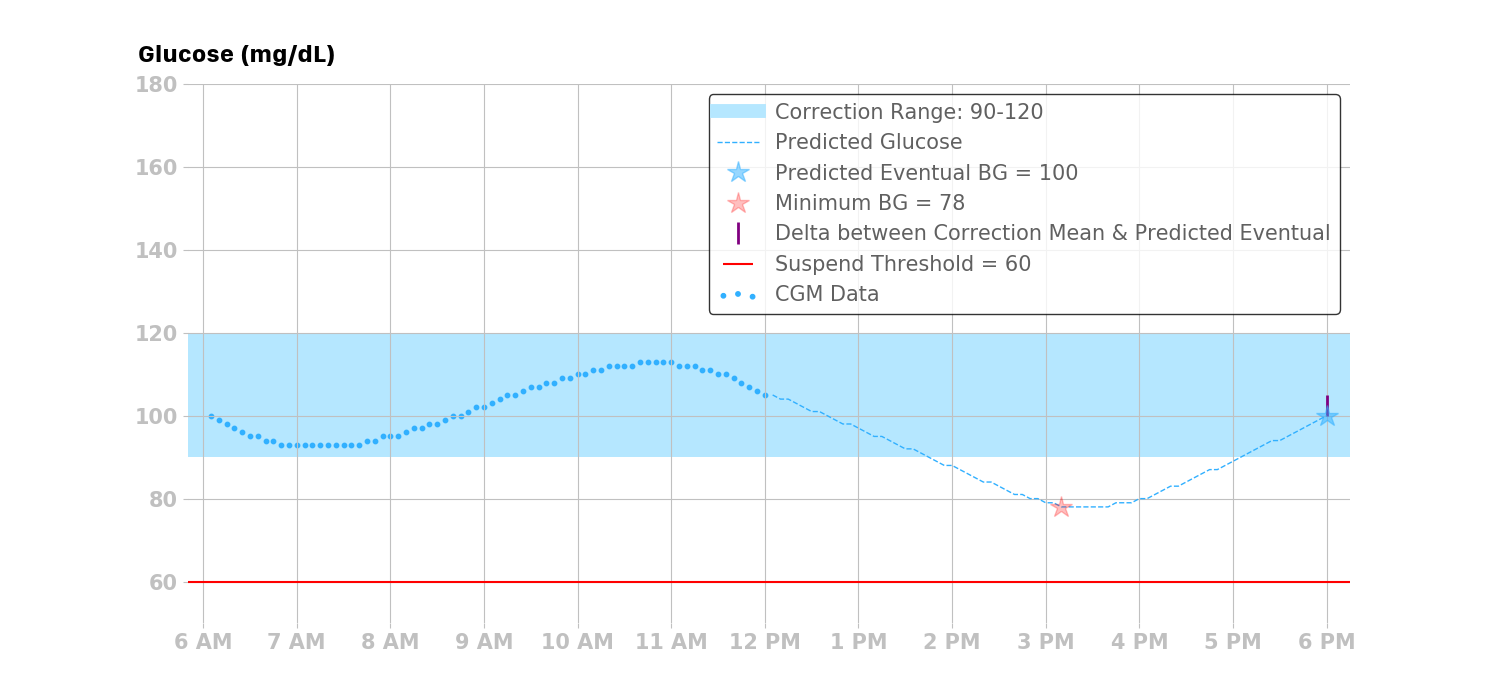
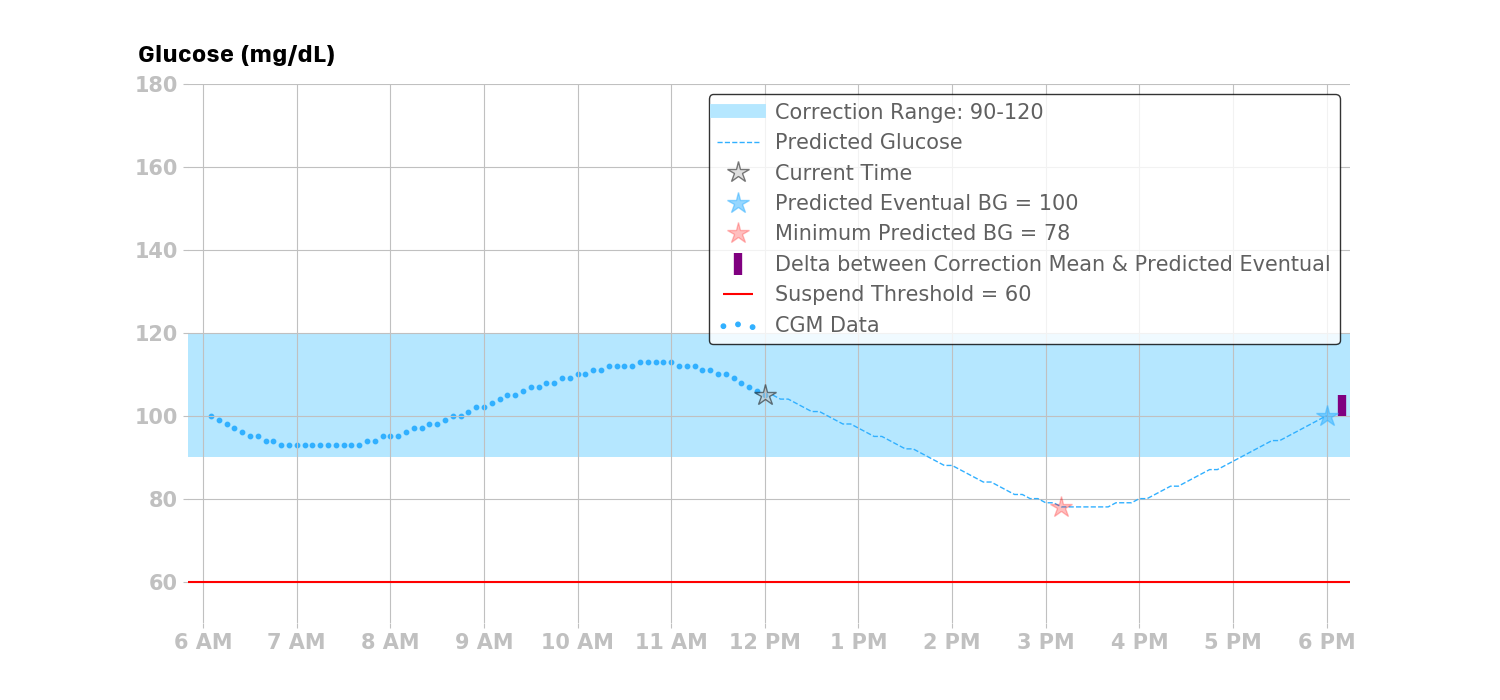
a few file name changes and some tweaks

Changed region(s): [[0.46, 0.24, 0.8893, 0.51], [0.8893, 0.57, 0.92, 0.6], [0.4907, 0.54, 0.5213, 0.57]]

diff --git a/projects/loop-algorithm/loopTempBasalLogic-InsulinComponent.py b/projects/loop-algorithm/loopTempBasalLogic-InsulinComponent.py
@@ -418,7 +418,7 @@ plt.show()
 plt.close('all')
 
 
-# %% insulin activity curve
+# %% insulin activity curves
 peakActivityTime = 60
 activeDuration = 6
 deliveryTime = dt.datetime.now()
@@ -448,27 +448,27 @@ fiasp = get_insulin_effect(model="fiasp",
                            insulinAmount=insulinAmount,
                            isf=isf)
 
+walsh = get_insulin_effect(model="walsh",
+                           peakActivityTime=peakActivityTime,
+                           activeDuration=activeDuration,
+                           deliveryTime=deliveryTime,
+                           insulinAmount=insulinAmount,
+                           isf=isf)
 
-figureName = "insulin-activity-curves"
+
+
+# %% first make a plot of just one curve for illustrative purposes
+figureName = "insulin-activity-curve"
 yLabel = "Insulin Effect Relative to Time of Delivery"
 fig, ax = plt.subplots(figsize=figureSizeInches)
 
 # plot the activty curve by normalizing the delta BG effect
-ax.plot(xData, abs(humNovAdult["deltaGlucoseEffect"]) / max(abs(humNovAdult["deltaGlucoseEffect"])), color="#f09a37", lw=4, ls="-")
-ax.plot(xData, abs(humNovChild["deltaGlucoseEffect"]) / max(abs(humNovChild["deltaGlucoseEffect"])), color="#f09a37", lw=4, ls=":")
-ax.plot(xData, abs(fiasp["deltaGlucoseEffect"]) / max(abs(fiasp["deltaGlucoseEffect"])), color="#f09a37", lw=4, ls="--")
+ax.plot(xData, abs(humNovChild["deltaGlucoseEffect"]) / max(abs(humNovChild["deltaGlucoseEffect"])),
+        color="#f09a37", lw=4, ls="-")
+
 
 # run the common figure elements here
 ax = common_figure_elements(ax, xLabel, yLabel, figureFont, labelFontSize, tickLabelFontSize, coord_color)
-
-# define the legend
-leg = plt.legend(["Humalog-Novolog-Adult (peak 75 min)",
-            "Humalog-Novolog-Child (peak 65 min)",
-            "Fiasp (peak 55 min)"], edgecolor="black")
-
-for text in leg.get_texts():
-    text.set_color('#606060')
-    text.set_weight('normal')
 
 # extras for this plot
 ax.set_xlim(-0.025, 6)
@@ -478,4 +478,36 @@ plt.savefig(os.path.join(outputPath, figureClass + figureName + ".png"))
 plt.show()
 plt.close('all')
 
+
+# %% show all of the insulin activity curves on one figure
+figureName = "insulin-activity-curves"
+yLabel = "Modeled Insulin Effect Relative to Time of Delivery"
+fig, ax = plt.subplots(figsize=figureSizeInches)
+
+# plot the activty curve by normalizing the delta BG effect
+ax.plot(xData, abs(humNovChild["deltaGlucoseEffect"]) / max(abs(humNovChild["deltaGlucoseEffect"])), color="#f09a37", lw=3, ls="-")
+ax.plot(xData, abs(humNovAdult["deltaGlucoseEffect"]) / max(abs(humNovAdult["deltaGlucoseEffect"])), color="#f09a37", lw=3, ls=":")
+ax.plot(xData, abs(fiasp["deltaGlucoseEffect"]) / max(abs(fiasp["deltaGlucoseEffect"])), color="#f09a37", lw=3, ls="--")
+ax.plot(xData, abs(walsh["deltaGlucoseEffect"]) / max(abs(walsh["deltaGlucoseEffect"])), color="#f09a37", lw=3, ls="-.")
+
+# run the common figure elements here
+ax = common_figure_elements(ax, xLabel, yLabel, figureFont, labelFontSize, tickLabelFontSize, coord_color)
+
+# define the legend
+leg = plt.legend(["Humalog-Novolog-Child (peak 65 min)",
+                  "Humalog-Novolog-Adult (peak 75 min)",
+                  "Fiasp (peak 55 min)",
+                  "Walsh Model (peak 140 min)"], edgecolor="black")
+
+for text in leg.get_texts():
+    text.set_color('#606060')
+    text.set_weight('normal')
+
+# extras for this plot
+ax.set_xlim(-0.025, 6.1)
+
+# save the figure
+plt.savefig(os.path.join(outputPath, figureClass + figureName + ".png"))
+plt.show()
+plt.close('all')
 

diff --git a/projects/loop-algorithm/loopAlgorithmOverview.py b/projects/loop-algorithm/loopAlgorithmOverview.py
@@ -156,6 +156,11 @@ ax.plot([], [], color='#B5E7FF', linewidth=10,
 # plot predicted cgm
 ax.plot(predictedTime, predictedCgm, linestyle="--", color="#31B0FF", lw=1, label="Predicted Glucose")
 
+# plot the current time
+ax.plot(simulatedTime[-1], simulatedCgm[-1],
+        marker='*', markersize=16, color="white", alpha=0.5,
+        ls="None", label="Current Time")
+
 # plot eventual bg
 ax.plot(predictedTime[-1], predictedCgm[-1],
         marker='*', markersize=16, color="#31B0FF", alpha=0.5,
@@ -175,7 +180,7 @@ ax.hlines(suspendThreshold, ax.get_xlim()[0], ax.get_xlim()[1],
 ax.scatter(simulatedTime, simulatedCgm, s=10, color="#31B0FF", label="CGM Data")
 
 # place holder for the delta vertical line in the legend
-ax.plot(-10, 10, ls="None", marker="|", markersize=16, markeredgewidth=2,
+ax.plot(-10, 10, ls="None", marker="|", markersize=16, markeredgewidth=6,
         color="purple", label="Delta between Correction Mean & Predicted Eventual")
 
 # run the common figure elements here
@@ -188,8 +193,8 @@ for text in leg.get_texts():
     text.set_weight('normal')
 
 # plot the delta
-ax.vlines(predictedTime[-1], min([correction_mean, predictedCgm[-1]]),
-          max([correction_mean, predictedCgm[-1]]), linewidth=2,
+ax.vlines(predictedTime[-1] + 10, min([correction_mean, predictedCgm[-1]]),
+          max([correction_mean, predictedCgm[-1]]), linewidth=6,
           colors="purple", label="Delta between Correction Mean & Predicted Eventual")
 
 # set tick marks
